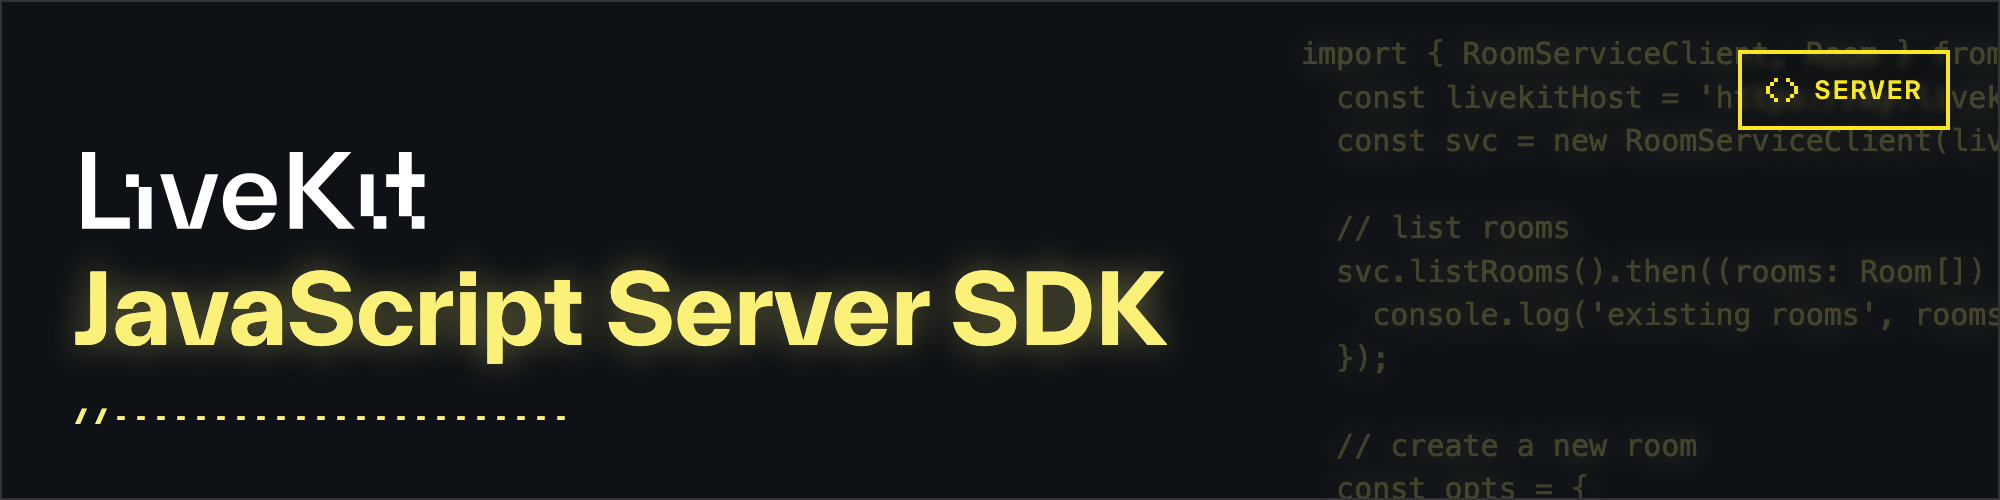
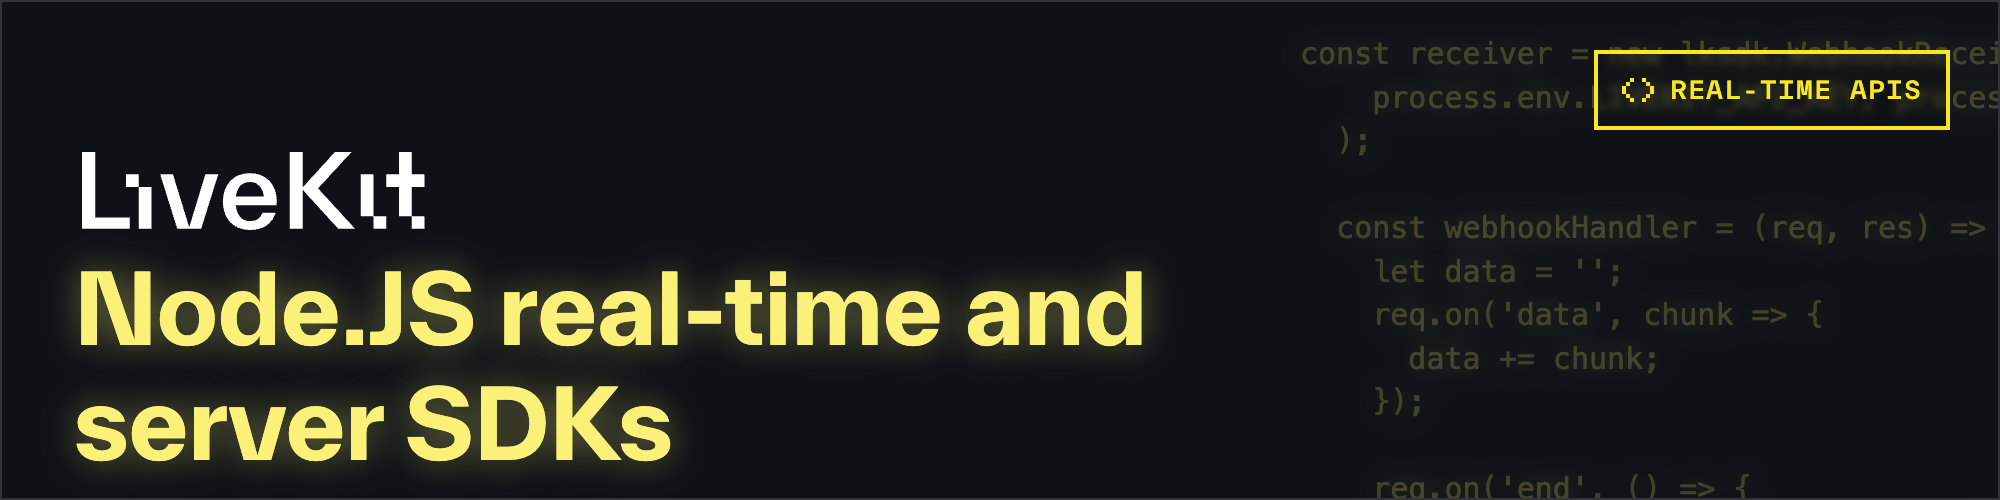
Update readme (#190)

diff --git a/README.md b/README.md
@@ -6,6 +6,12 @@ SPDX-License-Identifier: Apache-2.0
 
 <!--BEGIN_BANNER_IMAGE-->
 
+<picture>
+  <source media="(prefers-color-scheme: dark)" srcset="/.github/banner_dark.png">
+  <source media="(prefers-color-scheme: light)" srcset="/.github/banner_light.png">
+  <img style="width:100%;" alt="The LiveKit icon, the name of the repository and some sample code in the background." src="https://raw.githubusercontent.com/livekit/node-sdks/main/.github/banner_light.png">
+</picture>
+
 <!--END_BANNER_IMAGE-->
 
 <h1>
@@ -13,7 +19,7 @@ SPDX-License-Identifier: Apache-2.0
 </h1>
 
 <!--BEGIN_DESCRIPTION-->
-
+Use this SDK to add real-time video, audio and data features to your Node app. By connecting to a self- or cloud-hosted <a href="https://livekit.io/">LiveKit</a> server, you can quickly build applications like interactive live streaming or video calls with just a few lines of code.
 <!--END_DESCRIPTION-->
 
 ## Monorepo Navigation
@@ -55,5 +61,14 @@ This will build all the packages in `/packages` and the examples in `/examples` 
 After that you can use a more granular command to only rebuild the packages you are working on.
 
 <!--BEGIN_REPO_NAV-->
-
+<br/><table>
+<thead><tr><th colspan="2">LiveKit Ecosystem</th></tr></thead>
+<tbody>
+<tr><td>Real-time SDKs</td><td><a href="https://github.com/livekit/components-js">React Components</a> · <a href="https://github.com/livekit/client-sdk-js">Browser</a> · <a href="https://github.com/livekit/client-sdk-swift">iOS/macOS</a> · <a href="https://github.com/livekit/client-sdk-android">Android</a> · <a href="https://github.com/livekit/client-sdk-flutter">Flutter</a> · <a href="https://github.com/livekit/client-sdk-react-native">React Native</a> · <a href="https://github.com/livekit/rust-sdks">Rust</a> · <b>Node.js</b> · <a href="https://github.com/livekit/python-sdks">Python</a> · <a href="https://github.com/livekit/client-sdk-unity-web">Unity (web)</a> · <a href="https://github.com/livekit/client-sdk-unity">Unity (beta)</a></td></tr><tr></tr>
+<tr><td>Server APIs</td><td><b>Node.js</b> · <a href="https://github.com/livekit/server-sdk-go">Golang</a> · <a href="https://github.com/livekit/server-sdk-ruby">Ruby</a> · <a href="https://github.com/livekit/server-sdk-kotlin">Java/Kotlin</a> · <a href="https://github.com/livekit/python-sdks">Python</a> · <a href="https://github.com/livekit/rust-sdks">Rust</a> · <a href="https://github.com/agence104/livekit-server-sdk-php">PHP (community)</a></td></tr><tr></tr>
+<tr><td>Agents Frameworks</td><td><a href="https://github.com/livekit/agents">Python</a> · <a href="https://github.com/livekit/agent-playground">Playground</a></td></tr><tr></tr>
+<tr><td>Services</td><td><a href="https://github.com/livekit/livekit">Livekit server</a> · <a href="https://github.com/livekit/egress">Egress</a> · <a href="https://github.com/livekit/ingress">Ingress</a> · <a href="https://github.com/livekit/sip">SIP</a></td></tr><tr></tr>
+<tr><td>Resources</td><td><a href="https://docs.livekit.io">Docs</a> · <a href="https://github.com/livekit-examples">Example apps</a> · <a href="https://livekit.io/cloud">Cloud</a> · <a href="https://docs.livekit.io/oss/deployment">Self-hosting</a> · <a href="https://github.com/livekit/livekit-cli">CLI</a></td></tr>
+</tbody>
+</table>
 <!--END_REPO_NAV-->
